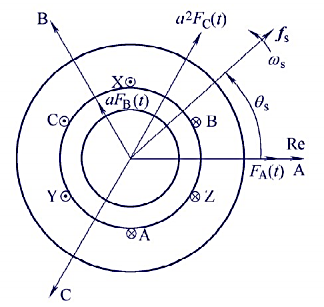
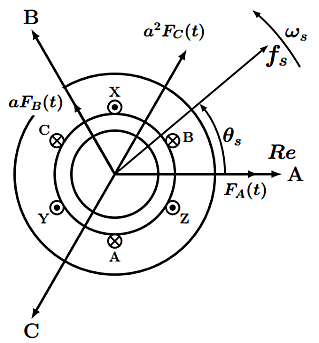
20170724 - add posts

diff --git a/source/_posts/笔记/电机控制之空间矢量/motor.tex b/source/_posts/笔记/电机控制之空间矢量/motor.tex
@@ -1,0 +1,121 @@
+
+\usepackage{bm}
+
+%===============================================================================
+% New commands
+
+% 电流流入方向
+% #1 中心位置
+\newcommand {\currentIn}[1] {
+\filldraw [line width=1.5pt,color=white] #1 circle(0.2);
+\draw [line width=1.5pt] #1 circle(0.2);
+\draw [line width=1.5pt] #1 +(45:0.2)--+(45:-0.2);
+\draw [line width=1.5pt] #1 +(-45:0.2)--+(-45:-0.2);
+}
+
+% 电流流出方向
+% #1 中心位置
+\newcommand {\currentOut}[1] {
+\filldraw [line width=1.5pt,color=white] #1 circle(0.2);
+\draw [line width=1.5pt] #1 circle(0.2);
+\draw [fill ] #1 circle(0.08);
+}
+
+% 三相绕组
+% #1 中心位置
+% #2 环绕半径
+\newcommand {\threeWind}[2] {
+\currentIn{#1 ++(30:#2)};
+\draw #1 ++(30:#2+0.2) node [right] {\large \textbf{B}};
+\currentOut{#1 ++(90:#2)};
+\draw #1 ++(90:#2+0.2) node [above] {\large \textbf{X}};
+\currentIn{#1 ++(150:#2)};
+\draw #1 ++(150:#2+0.1) node [above left] {\large \textbf{C}};
+\currentOut{#1 ++(-30:#2)};
+\draw #1 ++(-30:#2+0.1) node [below right] {\large \textbf{Z}};
+\currentIn{#1 ++(-90:#2)};
+\draw #1 ++(-90:#2+0.2) node [below] {\large \textbf{A}};
+\currentOut{#1 ++(-150:#2)};
+\draw #1 ++(-150:#2+0.1) node [below left] {\large \textbf{Y}};
+}
+
+% ABC轴系
+% #1 中心位置
+% #2 轴长
+\newcommand {\abcAxis}[2]{
+\draw [line width=2pt] [-latex] #1 -- +(0:#2) node [right] {\LARGE \textbf{A}};
+\draw [line width=2pt] [-latex] #1 -- +(120:#2) node [above] {\LARGE \textbf{B}};
+\draw [line width=2pt] [-latex] #1 -- +(-120:#2) node [below] {\LARGE \textbf{C}};
+}
+
+% 轴向绕组
+% #1 定点位置
+% #2 旋转角度
+\newcommand {\inductorWind}[2] {
+\draw [line width=1.5pt,rotate around={#2:(0,0)}] 
+	#1 circle(0.09) 
+	+(0,0.045) -- +(0,0.9)
+ 	arc(180:0:0.2) arc(180:0:0.2) arc(180:0:0.2) arc(180:0:0.2)
+ 	-- ++(0,-0.9+0.045)
+ 	+(0,-0.045) circle(0.09);
+\filldraw [color=white,rotate around={#2:(0,0)}] #1 circle(0.06);
+\filldraw [color=white,rotate around={#2:(0,0)}] #1+(1.6,0) circle(0.06);
+\draw [line width=1.5pt,rotate around={#2:(0,0)}] [latex-] #1+(0.2,-0.5)-- +(1.4,-0.5);
+\draw [line width=1.5pt,rotate around={#2:(0,0)}] [-latex] #1+(1.3,-0.3)-- +(1.3,0.5);
+}
+
+% 扇形
+% #1 圆心位置
+% #2 内圆半径
+% #3 外圆半径
+% #4 扇形角度
+% #5 旋转角度
+\newcommand {\sector}[5]{
+\filldraw [rotate around={#5:(0,0)}, color=gray] 
+	#1 ++(0:#2) arc(0:#4:#2)
+	-- ++(#4:#3-#2)
+	arc(#4:0:#3)
+	-- ++(0:#2-#3);
+}
+
+% 扇形
+% #1 圆心位置
+% #2 内圆半径
+% #3 外圆半径
+% #4 扇形角度
+% #5 旋转角度
+\newcommand {\sectorLine}[5]{
+\draw [line width=2pt, rotate around={#5:(0,0)}] 
+	#1 ++(0:#2) arc(0:#4:#2)
+	-- ++(#4:#3-#2)
+	arc(#4:0:#3)
+	-- ++(0:#2-#3);
+}
+
+% 电压源
+% #1 定点位置
+% #2 角度
+\newcommand {\powerVol}[2]{
+\filldraw [color=white, rotate around={#2:(0,0)}] #1+(0.5,0) circle(0.6);
+\draw [line width=2pt, rotate around={#2:(0,0)}] #1+(0.5,0) circle(0.6);
+\draw [line width=2pt, rotate around={#2:(0,0)}] [-latex] #1 -- +(1,0);
+}
+
+% 电流源
+% #1 定点位置
+% #2 角度
+\newcommand {\powerCur}[2]{
+\filldraw [color=white, rotate around={#2:(0,0)}] #1+(0.5,0) circle(0.6);
+\draw [line width=2pt, rotate around={#2:(0,0)}] #1+(0.5,0) circle(0.6);
+\draw [line width=2pt, rotate around={#2:(0,0)}] [-latex] #1++(0.5,0.5) -- +(0,-1);
+}
+
+% 电感
+% #1 定点位置
+% #2 旋转角度
+\newcommand {\inductor}[2] {
+\draw [line width=2pt,rotate around={#2:(0,0)}] 
+	#1 arc(180:0:0.2) arc(180:0:0.2) arc(180:0:0.2) arc(180:0:0.2);
+}
+
+%===============================================================================
